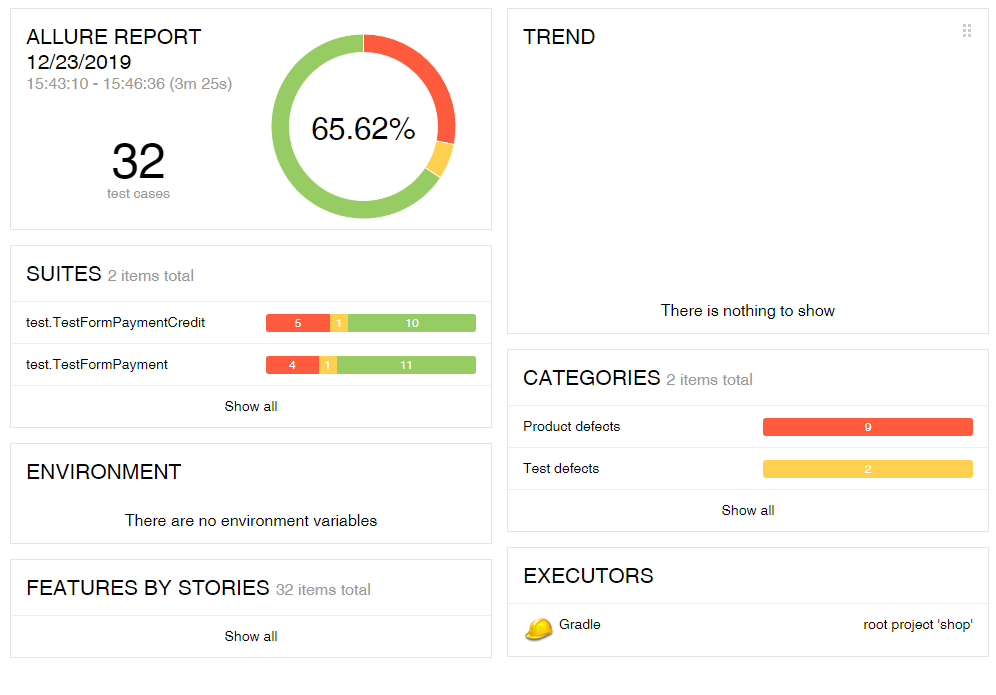
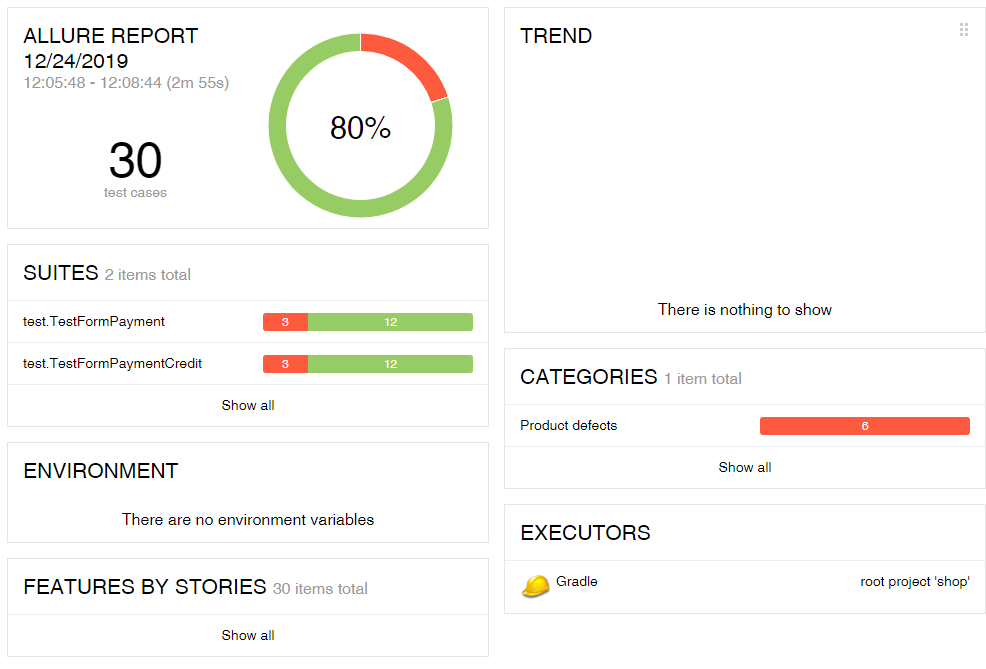
Edit DBUtils.class

diff --git a/src/test/java/TestFormPayment.java b/src/test/java/TestFormPayment.java
@@ -1,11 +1,11 @@
 package test;
 
 import java.sql.SQLException;
-
 import lombok.val;
 import org.junit.jupiter.api.*;
 import com.codeborne.selenide.logevents.SelenideLogger;
 import io.qameta.allure.selenide.AllureSelenide;
+import java.util.List;
 
 public class TestFormPayment {
     private FormPage formPage;
@@ -202,23 +202,30 @@ public class TestFormPayment {
 
     @Test
     @DisplayName("Оплата по активной карте, обычная покупка, валидные данные, проверка записи в БД")
-    void shouldPayByApprovedCardStatusInDB() throws SQLException {
-        shouldPayByApprovedCard();
+    void shouldPayByApprovedCardStatusInDB()  throws SQLException{
+        formPage.buyForYourMoney();
+        formPage.setCardNumber("4444444444444441");
+        formPage.setCardMonth("08");
+        formPage.setCardYear("22");
+        formPage.setCardOwner("Ivan Petrov");
+        formPage.setCardCVV("999");
+        formPage.pushСontinueButton();
+        formPage.checkMessageSuccess();
         DBUtils.checkPaymentStatus(Status.APPROVED);
     }
 
     @Test
     @DisplayName("Оплата по неактивной карте, обычная покупка, валидные данные, проверка записи в БД")
     void shouldNoPayByDeclinedCardStatusInDB() throws SQLException {
-        shouldNoPayByDeclinedCard();
-        DBUtils.checkPaymentStatus(Status.DECLINED);
-    }
-
-    @Test
-    @DisplayName("Оплата по неизвестной карте, обычная покупка, валидные данные, проверка записи в БД")
-    void shouldNoPayByUnknownCardStatusInDB() throws SQLException {
-        shouldNoPayByUnknownCard();
-        DBUtils.checkPaymentStatus(Status.DECLINED);
+        formPage.buyForYourMoney();
+        formPage.setCardNumber("4444444444444442");
+        formPage.setCardMonth("08");
+        formPage.setCardYear("22");
+        formPage.setCardOwner("Ivan Petrov");
+        formPage.setCardCVV("999");
+        formPage.pushСontinueButton();
+        formPage.checkMessageSuccess();
+       DBUtils.checkPaymentStatus(Status.DECLINED);
     }
 }
 

diff --git a/src/test/java/TestFormPaymentCredit.java b/src/test/java/TestFormPaymentCredit.java
@@ -1,9 +1,11 @@
 package test;
 
 import java.sql.SQLException;
+import lombok.val;
 import org.junit.jupiter.api.*;
 import com.codeborne.selenide.logevents.SelenideLogger;
 import io.qameta.allure.selenide.AllureSelenide;
+import java.util.List;
 
 public class TestFormPaymentCredit {
     private FormPage formPage;
@@ -200,21 +202,28 @@ public class TestFormPaymentCredit {
     @Test
     @DisplayName("Оплата по активной карте, покупка в кредит, валидные данные, проверка записи в БД")
     void shouldPayByApprovedCardInCreditStatusInDB() throws SQLException {
-        shouldPayByApprovedCardInCredit();
+        formPage.buyOnCredit();
+        formPage.setCardNumber("4444444444444441");
+        formPage.setCardMonth("08");
+        formPage.setCardYear("22");
+        formPage.setCardOwner("Ivan Petrov");
+        formPage.setCardCVV("999");
+        formPage.pushСontinueButton();
+        formPage.checkMessageSuccess();
         DBUtils.checkCreditStatus(Status.APPROVED);
     }
 
     @Test
     @DisplayName("Оплата по неактивной карте, покупка в кредит, валидные данные, проверка записи в БД")
     void shouldPayByDeclinedCardInCreditStatusInDB() throws SQLException {
-        shouldNoPayByDeclinedCardInCredit();
-        DBUtils.checkCreditStatus(Status.DECLINED);
-    }
-
-    @Test
-    @DisplayName("Оплата по неизвестной карте, покупка в кредит, валидные данные, проверка записи в БД")
-    void shouldPayByUnknownCardInCreditStatusInDB() throws SQLException {
-        shouldNoPayByUnknownCardInCredit();
+        formPage.buyOnCredit();
+        formPage.setCardNumber("4444444444444442");
+        formPage.setCardMonth("08");
+        formPage.setCardYear("22");
+        formPage.setCardOwner("Ivan Petrov");
+        formPage.setCardCVV("999");
+        formPage.pushСontinueButton();
+        formPage.checkMessageSuccess();
         DBUtils.checkCreditStatus(Status.DECLINED);
     }
 }

diff --git a/src/test/java/Lib/DBUtils.java b/src/test/java/Lib/DBUtils.java
@@ -1,5 +1,6 @@
 package test;
 
+import com.mysql.cj.x.protobuf.MysqlxDatatypes;
 import lombok.val;
 import org.apache.commons.dbutils.QueryRunner;
 import org.apache.commons.dbutils.handlers.BeanHandler;
@@ -17,7 +18,6 @@ public class DBUtils {
     private static String appPORT = System.getProperty("app.port");
     private static String userDB = System.getProperty("app.userDB");
     private static String password = System.getProperty("app.password");
-    private val payment;
 
     public static void clearAllData() throws SQLException {
         val runner = new QueryRunner();
@@ -30,7 +30,7 @@ public class DBUtils {
     public static void checkPaymentStatus(Status status) throws SQLException {
         val runner = new QueryRunner();
         val conn = DriverManager.getConnection(url, userDB, password);
-        val paymentDataSQL = "SELECT * FROM payment_entity;";
+        val paymentDataSQL = "SELECT status FROM payment_entity;";
         val payment = runner.query(conn, paymentDataSQL, new BeanHandler<>(PaymentModel.class));
         assertEquals(status, payment.status);
     }
@@ -38,7 +38,7 @@ public class DBUtils {
     public static void checkCreditStatus(Status status) throws SQLException {
         val runner = new QueryRunner();
         val conn = DriverManager.getConnection(url, userDB, password);
-        val creditDataSQL = "SELECT * FROM credit_request_entity;";
+        val creditDataSQL = "SELECT status FROM credit_request_entity;";
         val credit = runner.query(conn, creditDataSQL, new BeanHandler<>(CreditModel.class));
         assertEquals(status, credit.status);
     }

diff --git a/src/test/java/Lib/CreditModel.java b/src/test/java/Lib/CreditModel.java
@@ -8,5 +8,5 @@ import lombok.NoArgsConstructor;
 @NoArgsConstructor
 @AllArgsConstructor
 public class CreditModel {
-    public String status;
+    public Status status;
 }

diff --git a/src/test/java/Lib/FormPage.java b/src/test/java/Lib/FormPage.java
@@ -90,4 +90,5 @@ public class FormPage {
     public void pushСontinueButton(){
         $$(".button__content").find(exactText("Продолжить")).click();
     }
+
 }

diff --git a/docs/Report.md b/docs/Report.md
@@ -7,9 +7,9 @@
 * Тесты для проверки записей в БД
 
 ### Количество тест-кейсов
-* Всего: 28 тестов
-* Успешных: 19 (67%)
-* Неуспешных: 9 (33%)
+* Всего: 30 тестов
+* Успешных: 24 (80%)
+* Неуспешных: 6 (20%)
   
 ### Общие рекомендации
 #### Найденные баги

diff --git a/docs/Summary.md b/docs/Summary.md
@@ -12,4 +12,4 @@
 ### Общий итог по времени
 #### Всего написано и выполнено __ тестовых сценария.
 Было запланировано: 36 часов.  
-Потрачено по факту: 54 часов.
+Потрачено по факту: 72 часа.
